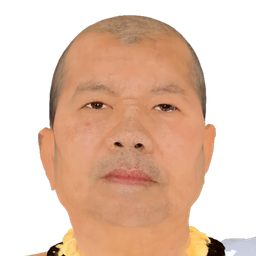
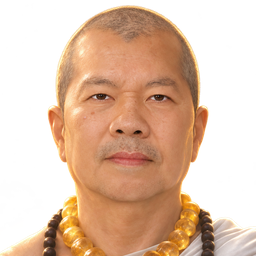
v28.0 (E4C5): R59 the party list's portraits painted by GPT Image in a Final Fantasy-like style (his word), from the game's own renders, each with its own alpha; the desktop's Tab chip off the small line and the small line fitting a narrow tile
Claude-Session: https://claude.ai/code/session_012dssR6qAN57acivr6t6QeS

diff --git a/shell.html b/shell.html
@@ -624,7 +624,7 @@ body.tagParty #tagSw{display:none}
 .tpTile.took .tpFace{animation:tpFacePop .5s cubic-bezier(.2,1.6,.4,1)}
 @keyframes tpFacePop{0%{transform:scale(.78);filter:brightness(2.6)}100%{transform:scale(1);filter:brightness(1)}}
 .tpText{position:absolute;left:57px;right:5px;top:4px;bottom:5px;display:flex;flex-direction:column;justify-content:center;gap:1px;pointer-events:none;z-index:1}
-.tpTitle{font-size:7px;line-height:1;letter-spacing:.16em;font-weight:700;color:rgba(var(--pcr),.95);white-space:nowrap;text-shadow:0 1px 2px rgba(0,0,0,.8)}
+.tpTitle{font-size:6.8px;line-height:1;letter-spacing:.07em;font-weight:700;color:rgba(var(--pcr),.95);white-space:nowrap;text-shadow:0 1px 2px rgba(0,0,0,.8)}
 .tpTile.on .tpTitle{color:rgba(255,255,255,.92)}
 .tpName{font-size:12.5px;line-height:1.05;letter-spacing:.05em;font-weight:800;white-space:nowrap;text-shadow:0 1px 3px rgba(0,0,0,.85)}
 .tpTile:not(.on) .tpName{color:rgba(244,236,216,.82)}
@@ -640,7 +640,10 @@ body.tagParty #tagSw{display:none}
 .tpEdge{position:absolute;left:0;top:0;bottom:0;width:20px;pointer-events:none;background:rgba(var(--pcr),.6);z-index:2;
   clip-path:polygon(15px 0,18px 0,3px 100%,0 100%);-webkit-clip-path:polygon(15px 0,18px 0,3px 100%,0 100%)}
 .tpTile.on .tpEdge{background:#FFFFFF;box-shadow:0 0 10px #FFFFFF}
-.tpTile .wpnKey{left:auto;right:5px;top:3px;bottom:auto;transform:none;font-size:.55rem;z-index:2}
+/* (the key's chip at the foot of the portrait, under his chin, clear of the words: named with body.finePtr, or the
+   button's own centred place, body.finePtr .wpnKey, outweighs it and the chip stood over the small line, build 40's
+   desktop picture) */
+body.finePtr .tpTile .wpnKey{left:13px;right:auto;top:auto;bottom:3px;transform:none;font-size:.5rem;z-index:2}
 .tpTile.noKey .wpnKey{display:none}
 .tpTile.ask{animation:tpCall 1.15s ease-in-out infinite}
 @keyframes tpCall{0%,100%{width:118px;filter:brightness(1)}50%{width:126px;filter:brightness(1.4)}}

diff --git a/masters/v28.0/props/portraits2.py b/masters/v28.0/props/portraits2.py
@@ -6,7 +6,12 @@ or a painted portrait asked for on that green): the green keyed out (its edge ke
 and the skin's edge taken back to the colours beside it), cropped square round the head and shoulders (the top of the head a
 little under the top, the head about half the square), written as a PNG with its own alpha, 256 x 256 (the tile draws it into
 a 46 x 42 box: 5.5 of its pixels a CSS pixel, enough for a phone at three device pixels a point).
-    python3 -I masters/v28.0/props/portraits2.py <pho picture> <zav picture> [out dir]   (from the repo root; out: assets/) """
+    python3 -I masters/v28.0/props/portraits2.py <pho picture> <zav picture> [out dir]   (from the repo root; out: assets/)
+R59 (Chad, 23 Nov: "send them to gptimage to generate in an artstyle similar to the final fantasy art style"): the painted
+portraits come back from GPT Image with their own alpha (masters/v28.0/props/PORTRAITS.md: the jobs, the prompts, the
+references); --painted takes that alpha as it is (no keying), grades nothing (the painting carries its own light) and crops
+them by the same head outline:
+    python3 -I masters/v28.0/props/portraits2.py --painted <pho painting> <zav painting> [out dir]"""
 import os, sys
 import numpy as np
 from PIL import Image, ImageEnhance, ImageFilter
@@ -18,7 +23,15 @@ LIFT = {'pho': 1.04, 'zav': 1.55}
 #  narrowest row is his jaw, not his neck, and his chin lies under it)
 FILL = {'pho': 0.82, 'zav': 0.70}
 
+PAINTED = '--painted' in sys.argv
+if PAINTED:
+    sys.argv.remove('--painted')
+    # (a painting's head is framed as a portrait: the top of the head to the narrowest row under it fills about 0.72 of the
+    #  square for both, his student's hair included)
+    LIFT = {'pho': 1.0, 'zav': 1.0}; FILL = {'pho': 0.72, 'zav': 0.72}
+
 def cut(path, out, who, N=256):
+    if PAINTED: return cutPainted(path, out, who, N)
     im = np.asarray(Image.open(path).convert('RGB')).astype(np.float32)
     R, G, B = im[..., 0], im[..., 1], im[..., 2]
     gd = G - np.maximum(R, B)                                   # how much greener than its other two: the backdrop is all green
@@ -50,6 +63,23 @@ def cut(path, out, who, N=256):
     crop = Image.fromarray(rgba, 'RGBA').crop((x0, y0, x0 + side, y0 + side)).resize((N, N), Image.LANCZOS)
     crop.save(out, 'PNG', optimize=True)
     print(os.path.basename(path), 'head', (top, neck), 'box', (x0, y0, side), '->', out, os.path.getsize(out), 'bytes')
+
+def cutPainted(path, out, who, N=256):
+    im = Image.open(path).convert('RGBA'); A = np.asarray(im).astype(np.float32)
+    al = A[..., 3] / 255.0
+    ys, xs = np.nonzero(al > 0.5)
+    if len(xs) < 2000: raise SystemExit(f'{path}: no figure in the painting')
+    top = ys.min(); H, W = al.shape
+    rows = {y: np.nonzero(al[y] > 0.5)[0] for y in range(top, H)}
+    wid = {y: (r.max() - r.min() if len(r) else 0) for y, r in rows.items()}
+    lo = int(top + 0.45 * (H - top))
+    neck = min((y for y in range(lo, H) if wid[y] > 0), key=lambda y: wid[y])
+    cx = float(np.median([(rows[y].min() + rows[y].max()) / 2 for y in range(top, neck) if len(rows[y])]))
+    side = min(H, W, int((neck - top) / FILL[who])); x0 = int(cx - side / 2); y0 = int(top - side * 0.05)
+    x0 = min(max(0, x0), W - side); y0 = min(max(0, y0), H - side)
+    crop = im.crop((x0, y0, x0 + side, y0 + side)).resize((N, N), Image.LANCZOS)
+    crop.save(out, 'PNG', optimize=True)
+    print(os.path.basename(path), 'head', (int(top), neck), 'box', (x0, y0, side), '->', out, os.path.getsize(out), 'bytes')
 
 pho, zav = sys.argv[1], sys.argv[2]
 od = sys.argv[3] if len(sys.argv) > 3 else 'assets'

diff --git a/masters/v28.0/keys.py b/masters/v28.0/keys.py
@@ -30,12 +30,12 @@ group("e4c5 v28.0 (episode 4 chapter 5, the house with nine Prai): MASTER ZAVIER
 group("e4c5: the Naga stick (R2), from Chad's photograph: a checked picture on white, then Meshy at its highest and its\n"
       "own remesh (masters/v28.0/make.sh section 2, props/TABLE.txt, prop.sh)",
       [('w5nagastaff', 'w5nagastaff.glb', "Grandmaster Pho's Naga stick, light brown, 1.40 m")])
-group("e4c5: THE PARTY LIST'S PORTRAITS (R49, 23 Nov 2026: 'It should show the character potraits with the name'), the game's\n"
-      "own renders of the two bodies on a keying green (tools/probes/e4c5portrait.mjs BG=0x00ff00), cut out with their own alpha,\n"
-      "cropped by the head's outline and graded (R54: 'no black background'; masters/v28.0/props/portraits2.py): Grandmaster Pho's\n"
-      "likeness never goes to a picture service",
-      [('p5portpho', 'p5portpho.png', "Grandmaster Pho's portrait on the party list's tile, cut out (256 x 256, alpha)"),
-       ('p5portzav', 'p5portzav.png', "Master Zavier's portrait on the party list's tile, cut out (256 x 256, alpha)")])
+group("e4c5: THE PARTY LIST'S PORTRAITS (R49, 23 Nov 2026: 'It should show the character potraits with the name'), painted by\n"
+      "GPT Image in a style like Final Fantasy's from the game's own renders of the two bodies (R59, his word: masters/v28.0/props/\n"
+      "PORTRAITS.md, the jobs and the prompts), with their own alpha (R54: 'no black background'), cropped by the head's outline\n"
+      "(masters/v28.0/props/portraits2.py --painted)",
+      [('p5portpho', 'p5portpho.png', "Grandmaster Pho's portrait on the party list's tile, painted (256 x 256, alpha)"),
+       ('p5portzav', 'p5portzav.png', "Master Zavier's portrait on the party list's tile, painted (256 x 256, alpha)")])
 group("e4c5: GRANDMASTER PHO WITH FINGERS (R26, Chad's pick: 'Finger bones (Recommended)'): his own pho.glb with fifteen of the\n"
       "library's finger bones (and their ends) grafted onto his right hand from its own geometry, so it closes round the Naga\n"
       "stick; his file and chapters 3 and 4 untouched (tools/fingergraft.mjs, masters/v28.0/pho5)",

diff --git a/build.py b/build.py
@@ -815,12 +815,12 @@ ASSETS = {
     # e4c5: the Naga stick (R2), from Chad's photograph: a checked picture on white, then Meshy at its highest and its
     # own remesh (masters/v28.0/make.sh section 2, props/TABLE.txt, prop.sh)
     'w5nagastaff':  ('assets/w5nagastaff.glb', True, False),     # Grandmaster Pho's Naga stick, light brown, 1.40 m
-    # e4c5: THE PARTY LIST'S PORTRAITS (R49, 23 Nov 2026: 'It should show the character potraits with the name'), the game's
-    # own renders of the two bodies on a keying green (tools/probes/e4c5portrait.mjs BG=0x00ff00), cut out with their own alpha,
-    # cropped by the head's outline and graded (R54: 'no black background'; masters/v28.0/props/portraits2.py): Grandmaster Pho's
-    # likeness never goes to a picture service
-    'p5portpho':    ('assets/p5portpho.png', True, False),     # Grandmaster Pho's portrait on the party list's tile, cut out (256 x 256, alpha)
-    'p5portzav':    ('assets/p5portzav.png', True, False),     # Master Zavier's portrait on the party list's tile, cut out (256 x 256, alpha)
+    # e4c5: THE PARTY LIST'S PORTRAITS (R49, 23 Nov 2026: 'It should show the character potraits with the name'), painted by
+    # GPT Image in a style like Final Fantasy's from the game's own renders of the two bodies (R59, his word: masters/v28.0/props/
+    # PORTRAITS.md, the jobs and the prompts), with their own alpha (R54: 'no black background'), cropped by the head's outline
+    # (masters/v28.0/props/portraits2.py --painted)
+    'p5portpho':    ('assets/p5portpho.png', True, False),     # Grandmaster Pho's portrait on the party list's tile, painted (256 x 256, alpha)
+    'p5portzav':    ('assets/p5portzav.png', True, False),     # Master Zavier's portrait on the party list's tile, painted (256 x 256, alpha)
     # e4c5: GRANDMASTER PHO WITH FINGERS (R26, Chad's pick: 'Finger bones (Recommended)'): his own pho.glb with fifteen of the
     # library's finger bones (and their ends) grafted onto his right hand from its own geometry, so it closes round the Naga
     # stick; his file and chapters 3 and 4 untouched (tools/fingergraft.mjs, masters/v28.0/pho5)

diff --git a/masters/v28.0/props/PORTRAITS.md b/masters/v28.0/props/PORTRAITS.md
@@ -1,0 +1,29 @@
+# The party list's portraits (episode 4 chapter 5, R49 to R59)
+
+**R59 (Chad, 23 Nov 2026):** "For the portraits, i wanted you to send them to gptimage to generate in an artstyle similar to
+the final fantasy art style, did you not understand". His word that his teacher's render may go to the picture service.
+
+## The references (the game's own renders, never a photograph)
+
+`tools/probes/e4c5portrait.mjs` with `BG=0x00ff00` (a keying green behind each body, the court's light, a portrait's lens
+from a metre): Grandmaster Pho from in front (`pho-0.png`), Master Zavier turned 12 degrees (`zav-r.png`). Cut out and
+cropped by `portraits2.py` at 1024 and laid on a neutral grey: `portraits-src/pho-ref.png`, `zav-ref.png`.
+
+## The paintings (Higgsfield, GPT Image 2.6, 23 Nov 2026)
+
+Quality `max`, resolution `1k`, 1:1, `background: transparent`, PNG; 4.5 credits each (the balance read 361.5 before).
+
+| who | job id | prompt (as sent) |
+|---|---|---|
+| Grandmaster Pho | `bb006882-c846-4b55-b873-43834781139d` | Turn the man in the reference image into a character portrait for a fantasy role-playing game's party menu, in the polished semi-realistic CG art style of modern Final Fantasy character portraits: clean, finely rendered skin and features, soft cinematic lighting with a warm golden rim light around his head and shoulders and a gentle key light from the front left, a subtle painterly finish. Keep him exactly as he is in the reference: the same face, age and features, his shaved head with very short grey stubble, his calm, kind expression and his faint grey moustache, a white robe over one shoulder, a necklace of large golden-amber beads and a strand of dark prayer beads. Head and shoulders, facing the viewer, centred, the whole head in frame, cropped at the upper chest. Transparent background. No text, no logo, no frame, no border. |
+| Master Zavier | `0ee51049-96ab-4d46-b928-480390dbd7bc` | Turn the young man in the reference image into a character portrait for a fantasy role-playing game's party menu, in the polished semi-realistic CG art style of modern Final Fantasy character portraits: clean, finely rendered skin and features, soft cinematic lighting with a cool violet rim light around his head and shoulders and a gentle key light from the front left, a subtle painterly finish. Keep him exactly as he is in the reference: the same face, age and features, his messy spiky black hair, his calm, focused expression, a grey-blue knitted shawl-collar cardigan over a black T-shirt. Head and shoulders, facing the viewer, centred, the whole head and hair in frame, cropped at the upper chest. Transparent background. No text, no logo, no frame, no border. |
+
+Each rim light is his tile's own colour (gold his teacher's, violet his). Looked at full size, on a checker and on each tile's
+colour: each keeps his face, hair and dress, the alpha clean. Kept on this machine (git ignores `*.png`):
+`portraits-src/pho-painted.png`, `zav-painted.png` (and the job ids above fetch them again).
+
+## Into the game
+
+`python3 -I masters/v28.0/props/portraits2.py --painted portraits-src/pho-painted.png portraits-src/zav-painted.png assets`:
+each painting's own alpha, cropped by the head's outline (its top to the narrowest row under it filling 0.72 of the
+square), 256 x 256 PNG: `assets/p5portpho.png`, `assets/p5portzav.png`.
